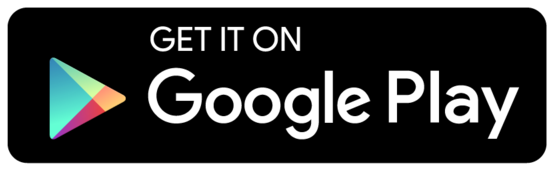
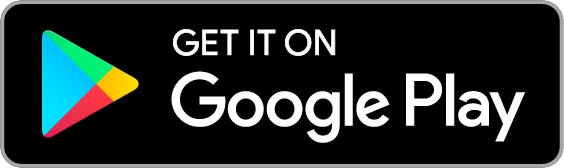
detalhes estéticos alterados

diff --git a/projeto/style.css b/projeto/style.css
@@ -127,11 +127,11 @@ body{
 }
 
 .app.app-download:nth-child(1) {
-    background-image: url('img/apple-button.png');
+    background-image: url('./img/apple-button.png');
 }
 
 .app.app-download:nth-child(2) {
-    background-image: url('img/googleplay-button.png');
+    background-image: url('./img/googleplay-button.png');
 }
 
 /* media queries */
